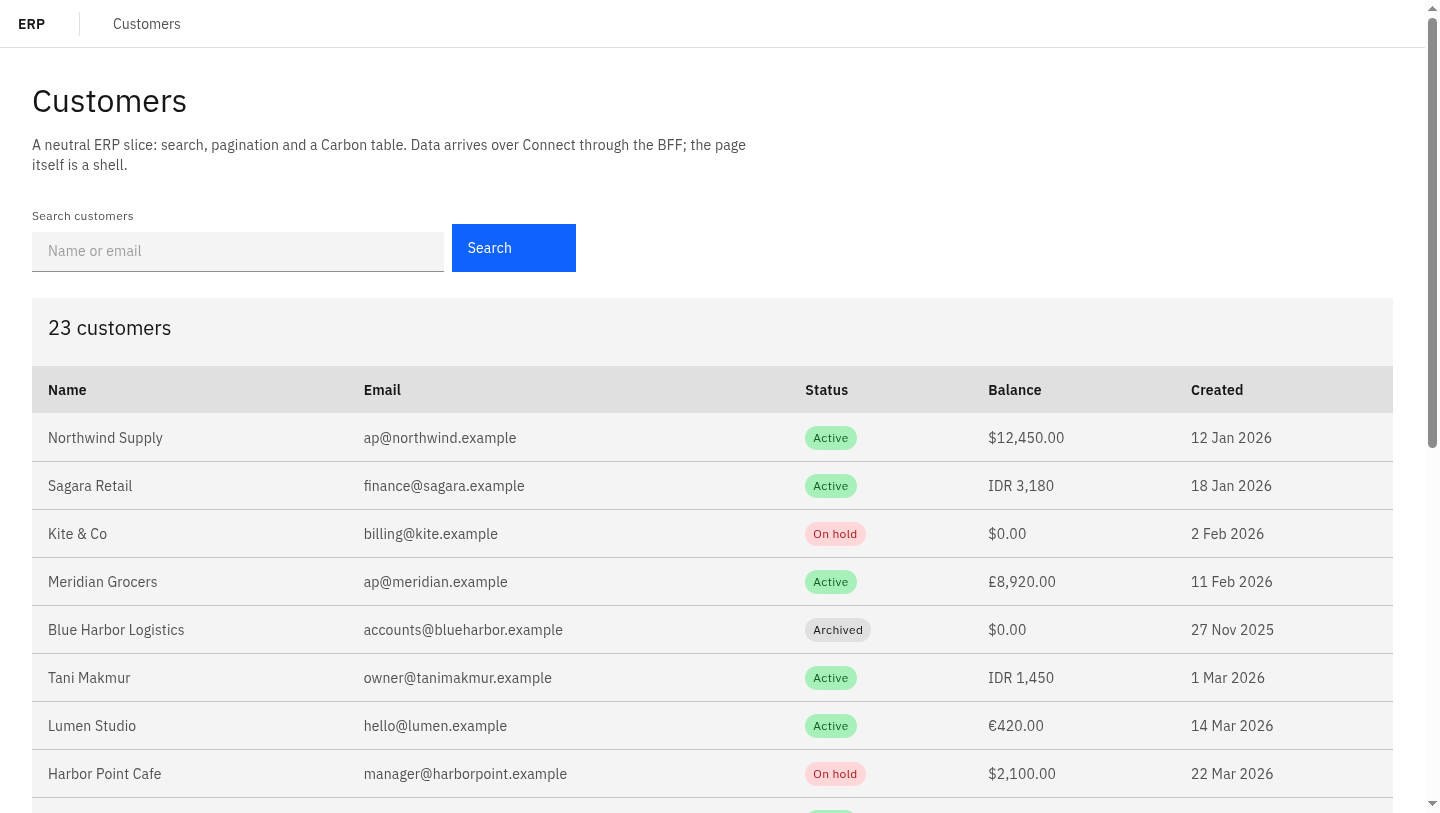
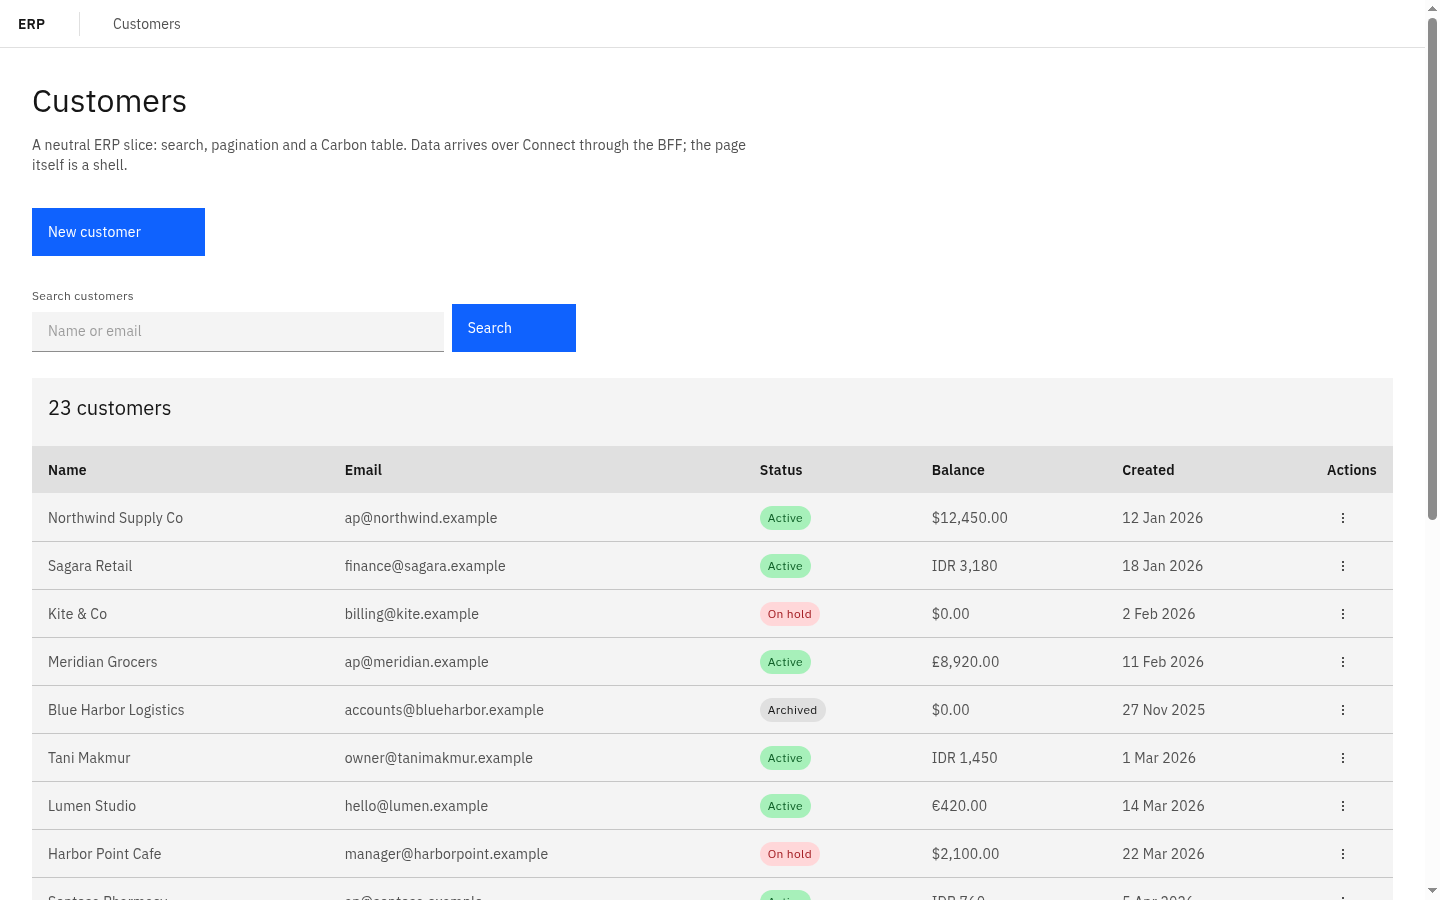
fix(ui): mobile layout and table actions
- The table actions column shrinks to its content (82px) instead of taking
  the remaining width, and the overflow menus are always visible. On mobile
  the actions column is pinned to the end.
- Below 42rem the search and form actions stack; form buttons become full
  width. Mobile tables hide Email and Created, tighten cell padding, keep
  Name/Status/Balance/Actions and never scroll the page horizontally.
- Page content gets min-inline-size: 0 so a wide table cannot blow out the
  grid column.
- Added 390px baselines for dashboard, customers, new, edit and delete modal;
  refreshed the 1440 customer and modal baselines.
- carbon-ui, tables and forms record the mobile rules.

Verified at 390: no document overflow (390/390), full-width actions, table
fits at 343px, sticky actions, modal full width with Cancel focused. Lint,
typecheck and build pass.

diff --git a/src/app/(app)/customers/_components/customers-page.tsx b/src/app/(app)/customers/_components/customers-page.tsx
@@ -145,15 +145,16 @@ export function CustomersPage() {
               title={`${total} customer${total === 1 ? "" : "s"}`}
               description={busy ? "Refreshing…" : undefined}
             >
-              <Table>
+              <div className={styles.tableScroll}>
+                <Table className="cds--data-table--visible-overflow-menu">
                 <TableHead>
                   <TableRow>
                     <TableHeader>Name</TableHeader>
-                    <TableHeader>Email</TableHeader>
+                    <TableHeader className={styles.hideSmall}>Email</TableHeader>
                     <TableHeader>Status</TableHeader>
                     <TableHeader>Balance</TableHeader>
-                    <TableHeader>Created</TableHeader>
-                    <TableHeader>Actions</TableHeader>
+                    <TableHeader className={styles.hideSmall}>Created</TableHeader>
+                    <TableHeader className={styles.actionsHeader}>Actions</TableHeader>
                   </TableRow>
                 </TableHead>
                 <TableBody>
@@ -165,15 +166,15 @@ export function CustomersPage() {
                     return (
                       <TableRow key={customer.id}>
                         <TableCell>{customer.name}</TableCell>
-                        <TableCell>{customer.email}</TableCell>
+                        <TableCell className={styles.hideSmall}>{customer.email}</TableCell>
                         <TableCell>
                           <Tag type={status.tag}>{status.label}</Tag>
                         </TableCell>
                         <TableCell>
                           {formatMoney(customer.balanceMinor, customer.currency)}
                         </TableCell>
-                        <TableCell>{formatDate(customer.createdAt)}</TableCell>
-                        <TableCell className="cds--table-column-menu">
+                        <TableCell className={styles.hideSmall}>{formatDate(customer.createdAt)}</TableCell>
+                        <TableCell className={`${styles.actionsCell} cds--table-column-menu`}>
                           <OverflowMenu
                             aria-label={`Actions for ${customer.name}`}
                             flipped
@@ -201,7 +202,8 @@ export function CustomersPage() {
                     );
                   })}
                 </TableBody>
-              </Table>
+                </Table>
+              </div>
             </TableContainer>
             <Pagination
               className={styles.pagination}

diff --git a/src/app/(app)/customers/_components/customers-page.module.scss b/src/app/(app)/customers/_components/customers-page.module.scss
@@ -1,18 +1,67 @@
 @use "@carbon/react/scss/spacing" as spacing;
-@use "@carbon/react/scss/type" as type;
 
 .search {
   display: flex;
   align-items: flex-end;
   gap: spacing.$spacing-03;
+  inline-size: 100%;
   margin-block-end: spacing.$spacing-06;
   max-inline-size: 34rem;
 
   :global(.cds--form-item) {
     flex: 1;
+    min-inline-size: 0;
   }
+}
+
+.actionsHeader,
+.actionsCell {
+  inline-size: 1%;
+  text-align: end;
+  white-space: nowrap;
+}
+
+.tableScroll {
+  max-inline-size: 100%;
+  overflow-x: auto;
+  -webkit-overflow-scrolling: touch;
 }
 
 .pagination {
   margin-block-start: spacing.$spacing-06;
+}
+
+@media (width <= 41.99rem) {
+  .tableScroll :global(.cds--data-table th),
+  .tableScroll :global(.cds--data-table td) {
+    padding-inline: spacing.$spacing-03;
+  }
+
+  .actionsHeader,
+  .actionsCell {
+    position: sticky;
+    inset-inline-end: 0;
+    z-index: 1;
+  }
+
+  .actionsHeader {
+    background: var(--cds-layer-accent);
+  }
+
+  .actionsCell {
+    background: var(--cds-layer);
+  }
+
+  .hideSmall {
+    display: none;
+  }
+
+  .search {
+    align-items: stretch;
+    flex-direction: column;
+  }
+
+  .search :global(.cds--btn) {
+    inline-size: 100%;
+  }
 }

diff --git a/src/components/page.tsx b/src/components/page.tsx
@@ -23,7 +23,7 @@ export function Page({
 }) {
   return (
     <Grid>
-      <Column sm={4} md={8} lg={16}>
+      <Column className={styles.column} sm={4} md={8} lg={16}>
         <Stack gap={7}>
           <Stack gap={5}>
             <h1 className={styles.title}>{title}</h1>
@@ -32,7 +32,7 @@ export function Page({
             ) : null}
           </Stack>
           {actions ? <div className={styles.actions}>{actions}</div> : null}
-          {children ? <div>{children}</div> : null}
+          {children ? <div className={styles.content}>{children}</div> : null}
         </Stack>
       </Column>
     </Grid>

diff --git a/src/app/(app)/customers/[id]/edit/_components/edit-customer-form.tsx b/src/app/(app)/customers/[id]/edit/_components/edit-customer-form.tsx
@@ -151,7 +151,7 @@ function EditForm({ customer }: { customer: Customer }) {
           />
         ) : null}
 
-        <ButtonSet>
+        <ButtonSet className={styles.actions}>
           <Button type="submit" disabled={update.isPending}>
             {update.isPending ? "Saving…" : "Save changes"}
           </Button>

diff --git a/src/app/(app)/customers/new/_components/customer-form.tsx b/src/app/(app)/customers/new/_components/customer-form.tsx
@@ -94,7 +94,7 @@ export function CustomerForm() {
           />
         ) : null}
 
-        <ButtonSet>
+        <ButtonSet className={styles.actions}>
           <Button type="submit" disabled={create.isPending}>
             {create.isPending ? "Creating…" : "Create customer"}
           </Button>

diff --git a/src/components/form.module.scss b/src/components/form.module.scss
@@ -1,3 +1,15 @@
 .form {
   max-inline-size: 40rem;
 }
+
+@media (width <= 41.99rem) {
+  .actions {
+    align-items: stretch;
+    flex-direction: column;
+  }
+
+  .actions > :global(.cds--btn) {
+    inline-size: 100%;
+    max-inline-size: none;
+  }
+}

diff --git a/src/components/page.module.scss b/src/components/page.module.scss
@@ -20,3 +20,12 @@
   flex-wrap: wrap;
   gap: spacing.$spacing-05;
 }
+
+.column {
+  min-inline-size: 0;
+}
+
+.content {
+  max-inline-size: 100%;
+  min-inline-size: 0;
+}

diff --git a/docs/visual/README.md b/docs/visual/README.md
@@ -10,6 +10,14 @@ intended rhythm instead of judging "looks fine" from code.
 - `customers-edit-1440.png` — `/customers/<id>/edit`, prefilled form
 - `delete-modal-1440.png` — the danger confirmation for deleting a customer
 
+Mobile, **390 px** wide:
+
+- `dashboard-390.png`
+- `customers-390.png` — Email and Created are hidden; actions stay pinned
+- `customers-new-390.png` — full-width stacked actions
+- `customers-edit-390.png`
+- `delete-modal-390.png` — full-width dialog, Cancel focused
+
 The Next dev indicator is disabled in `next.config.ts`, so screenshots stay
 clean.
 
@@ -27,6 +35,10 @@ clean.
 | Form width | 40rem (single column) |
 | Table → pagination | `1.5rem` / 24 px |
 | Page gutter at 1440 | 32 px (Carbon grid) |
+| Mobile page gutter | 16 px |
+| Mobile form actions | full width, stacked |
+| Mobile table | Email/Created hidden; actions sticky |
+| Mobile modal | full width |
 
 These come from Carbon spacing tokens (`05` = 1rem, `06` = 1.5rem,
 `07` = 2rem). The live contract is in

diff --git a/docs/carbon/tables.md b/docs/carbon/tables.md
@@ -89,6 +89,18 @@ Reserved for global actions: settings, complex filters, export, editing.
 Empty states are not an afterthought: the table, its toolbar and its pagination
 should make sense with zero rows.
 
+## Mobile
+
+- Hide secondary columns before shrinking the essential ones. In the golden
+  slice, Email and Created are hidden below 42 rem; Name, Status, Balance and
+  Actions remain.
+- Pin the actions column to the end so row actions stay reachable without
+  scrolling.
+- If the table still cannot fit, scroll inside the table only. The page must
+  never scroll horizontally.
+- Keep cell padding tighter on small screens; do not drop below the Carbon
+  spacing tokens.
+
 ## Template conventions
 
 - Amounts are right-aligned; names, emails and dates are left-aligned. Do not

diff --git a/.opencode/skills/carbon-ui/SKILL.md b/.opencode/skills/carbon-ui/SKILL.md
@@ -25,6 +25,18 @@ them per page.
 The shell owns the header offset: `src/app/(app)/layout.module.scss` pads the
 top by header + `spacing-07`. **Never add shell padding in a page.**
 
+## Mobile
+
+At 390 px (and generally below 42 rem):
+
+- Page gutter is 16 px; the shell gap below the header stays 32 px.
+- Form actions stack and become full width; search fields stack.
+- Tables hide secondary columns (Email, Created here), keep Name / Status /
+  Amount / Actions, and pin the actions column to the end. If the table still
+  scrolls, scroll inside the table — never the page.
+- Modals are full width; destructive dialogs still focus Cancel.
+- Touch targets stay at least 44 px.
+
 ## Use the primitives
 
 - **`Page`** (`src/components/page.tsx`) owns the grid, title, description,

diff --git a/docs/carbon/forms.md b/docs/carbon/forms.md
@@ -87,6 +87,8 @@ section a legend.
 - Group spacing should be larger than field spacing (for example 32 px fields,
   40 px sections).
 - 48 px between the last input and the action group.
+- Below 42 rem: fields take the full width and the action set stacks with
+  full-width buttons. Never let the form widen the page.
 
 ## Accessibility
 
